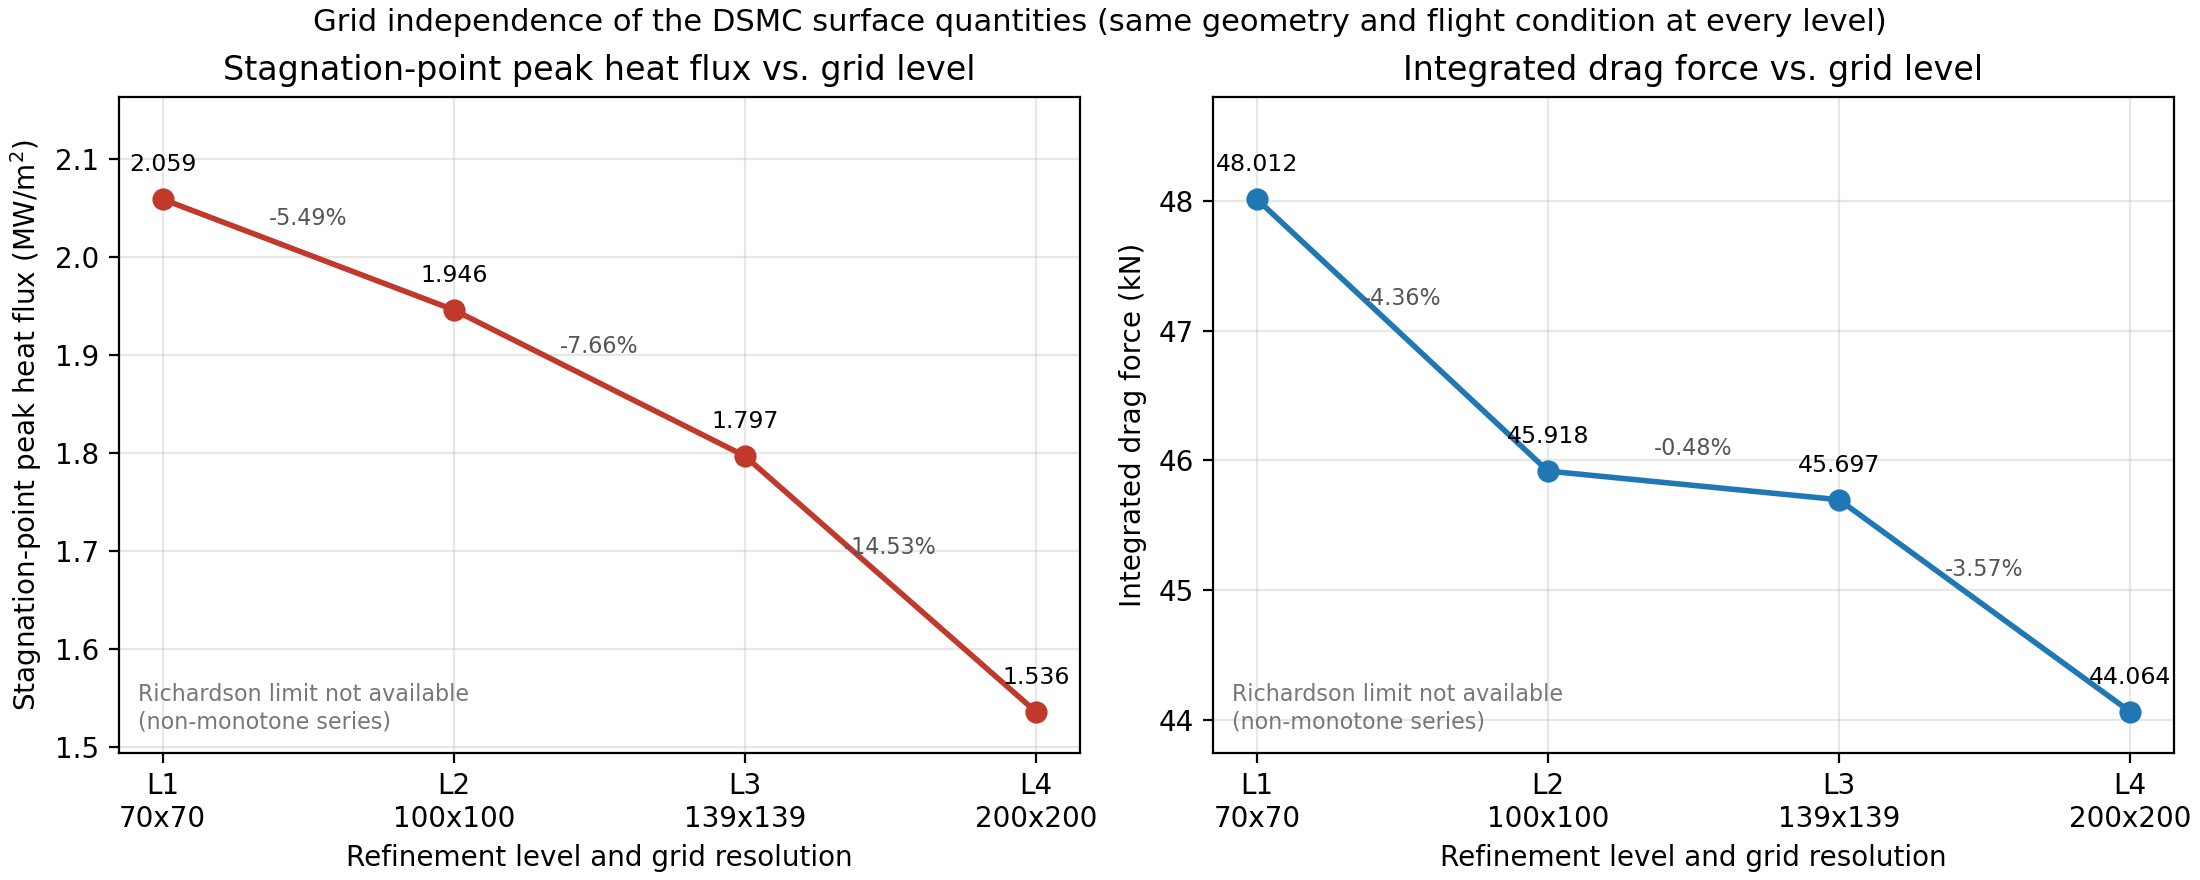
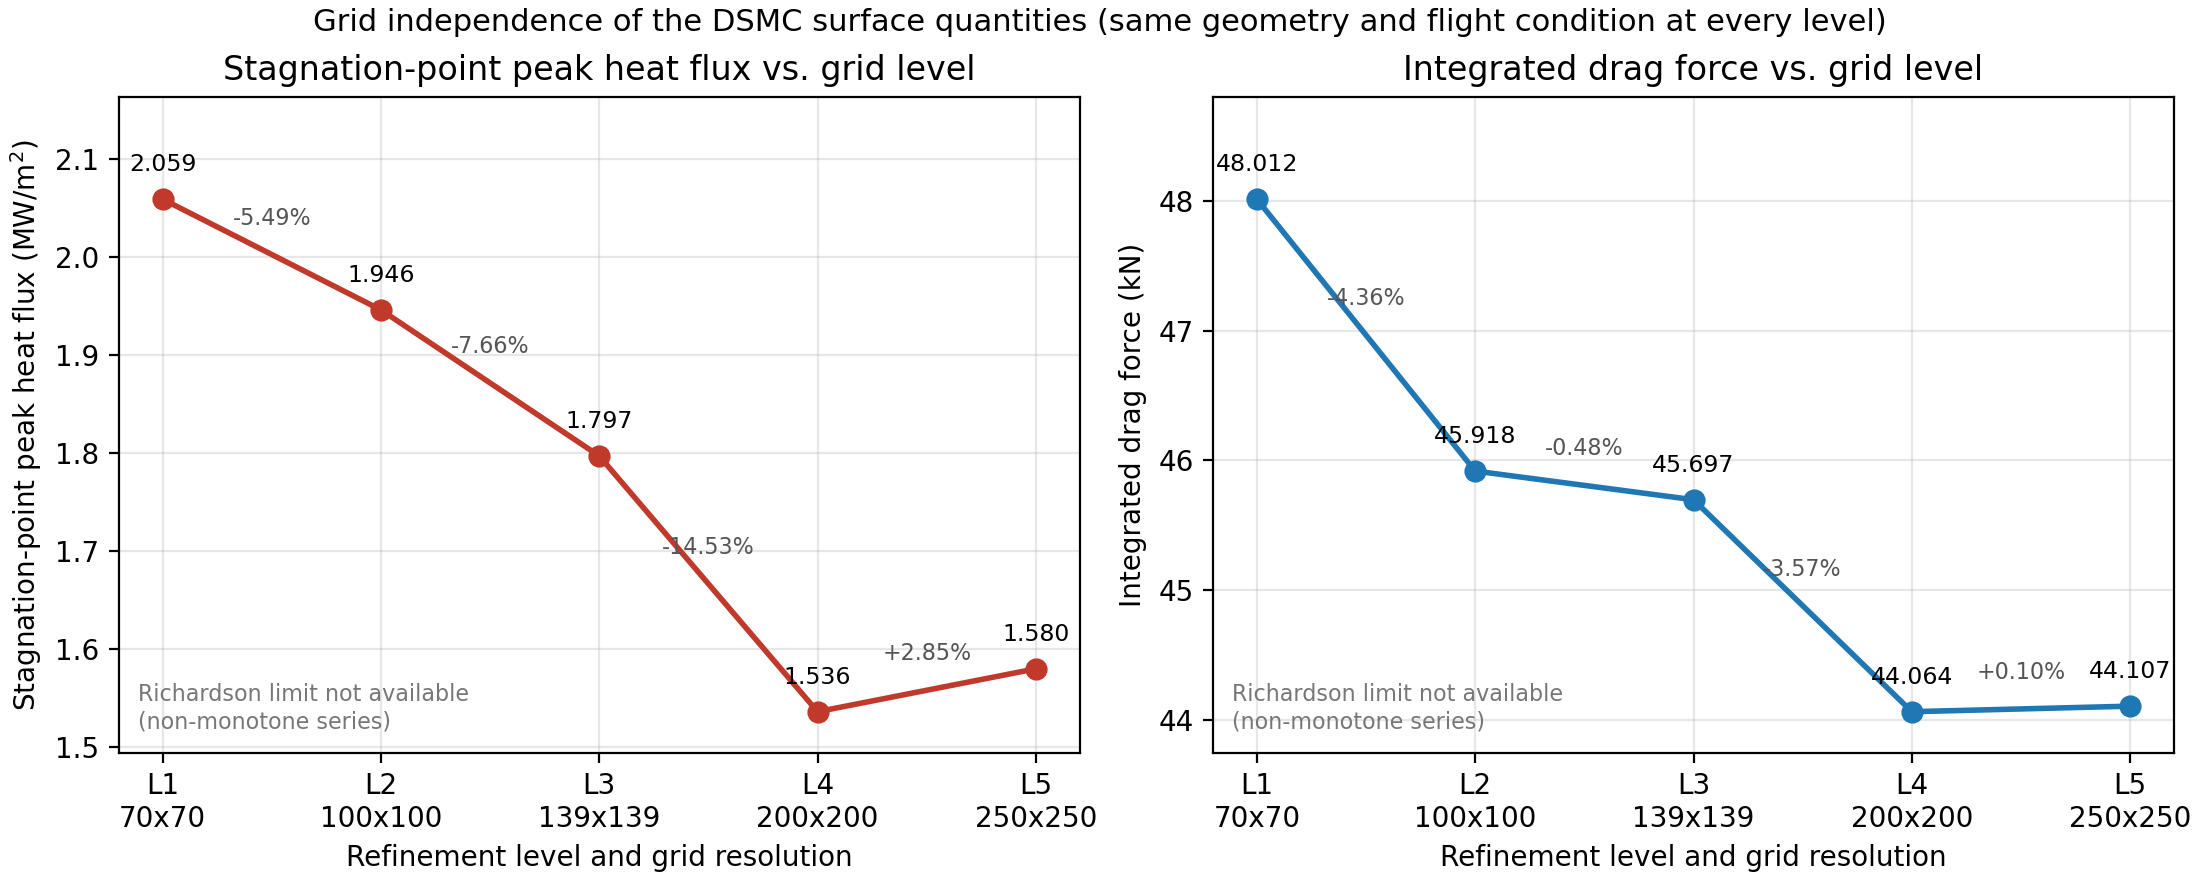
fix(thesis): bring the grid narration, table and figure into sync with the five-level study
The body text still described four resolutions and the embedded figure was the
October four-level PNG, while the abstracts and the csv already carried L5.

- chapter_04_results.tex:154/:241/:400 now say five resolutions, quote the L5
  peak 1.580 MW/m2 and the +2.85 percent reversal against L4, and note the peak
  surface migrates (id 4 -> 2 -> 7) so no observed order exists.
- appendix.tex: text and table caption say five levels; tab:grid_study gains the
  L5 row (250x250, 62500 cells, 1.580 MW/m2, 44.107 kN).
- figures/grid_independence_qoi.png replaced with the regenerated five-level
  figure (sha256 now matches the results tree).
- chapter_04_results.tex alt text: reference peak deceleration corrected from
  22.5 to 22.72 g so the caption agrees with itself and with the csv.

Rebuild: 0 errors, 0 warnings, 238 pages.

diff --git a/ProgressReport/CurrentThesisFinalReport/chapter_04_results.tex b/ProgressReport/CurrentThesisFinalReport/chapter_04_results.tex
@@ -151,7 +151,7 @@ A distribution validating the utilization of DSMC for a majority of the flow fie
 \end{figure}
 
 \section{Grid Independence Study}
-A grid independence study was performed on the reference body at the same freestream condition and trajectory point, at four Cartesian resolutions: $70\times70$ (4\,900 cells), $100\times100$ (10\,000 cells), $139\times139$ (19\,321 cells, the production grid) and $200\times200$ (40\,000 cells). Neither series is grid-converged: the integrated drag force appears to plateau between L2 and L3 ($-0.48\,\%$) but moves $-3.57\,\%$ at L4, and the stagnation-point peak heat flux changes by $-7.66\,\%$ (L2--L3) and $-14.53\,\%$ (L3--L4). Figure~\ref{fig:grid_independence} is the graphical record of the same campaign; the quantitative summary is Table~\ref{tab:grid_study}.
+A grid independence study was performed on the reference body at the same freestream condition and trajectory point, at five Cartesian resolutions: $70\times70$ (4\,900 cells), $100\times100$ (10\,000 cells), $139\times139$ (19\,321 cells, the production grid), $200\times200$ (40\,000 cells) and $250\times250$ (62\,500 cells). Neither series is grid-converged: the integrated drag force appears to plateau between L2 and L3 ($-0.48\,\%$) but moves $-3.57\,\%$ at L4, and the stagnation-point peak heat flux changes by $-7.66\,\%$ (L2--L3) and $-14.53\,\%$ (L3--L4) before reversing to $+2.85\,\%$ at L5 (1.580 against 1.536\,MW\,m$^{-2}$), so the successive differences do not shrink and the peak surface migrates between elements (id 4 at L3, 2 at L4, 7 at L5). Figure~\ref{fig:grid_independence} is the graphical record of the same campaign; the quantitative summary is Table~\ref{tab:grid_study}.
 
 \begin{figure}[H]
     \centering
@@ -238,7 +238,7 @@ The DSMC simulation convergence is monitored via residual tracking (Figure~\ref{
 \end{figure}
 
 \section{Mesh Quality Statistics}
-The quantitative evidence for the chosen grid is the four-level grid-independence study of Table~\ref{tab:grid_study} and Figure~\ref{fig:grid_independence}, together with the residual convergence of Figure~\ref{fig:convergence}, not a statistics panel: both figures in this section (Figures~\ref{fig:grid_mesh} and \ref{fig:mesh_stats}) render the mesh and report no numeric quality metric. The study shows that neither series is grid-converged (the drag plateau at L2--L3 is invalidated by L4 and the heat-flux differences grow with refinement), so the production grid ($139\times139$, 19\,321 cells) is retained on cost grounds as a conservative choice for the surface quantities.
+The quantitative evidence for the chosen grid is the five-level grid-independence study of Table~\ref{tab:grid_study} and Figure~\ref{fig:grid_independence}, together with the residual convergence of Figure~\ref{fig:convergence}, not a statistics panel: both figures in this section (Figures~\ref{fig:grid_mesh} and \ref{fig:mesh_stats}) render the mesh and report no numeric quality metric. The study shows that neither series is grid-converged (the drag plateau at L2--L3 is invalidated by L4 and the heat-flux differences grow with refinement), so the production grid ($139\times139$, 19\,321 cells) is retained on cost grounds as a conservative choice for the surface quantities.
 
 \begin{figure}[H]
     \centering
@@ -397,11 +397,11 @@ The thermal cost of the topological change is small: the optimized body raises t
 \section{Supporting Evidence from the Simulation Record}
 \label{sec:results_tree_evidence}
 
-The figures presented are snapshots of a converged state, a mesh, geometry, and search data. The program records each run under \texttt{stellarorion\_program\_proc/results/}and incorporates this into the thesis. Each panel is verbatim from the results tree, meaning there are no second, divergent renditions of the same data. Two additional figures are generated by the pipeline from these records: the surface quantities' grid independence across four refinement levels (Figure~\ref{fig:grid_independence}) and the axial surface-pressure distribution of the reference body (Figure~\ref{fig:surface_pressure}). The flight-history, heat flux, sampling, geometry, survivability, design-space, denoising, and morphing panels (Figures~\ref{fig:flight_history}–\ref{fig:morphing_geometry}) are discussed below.
+The figures presented are snapshots of a converged state, a mesh, geometry, and search data. The program records each run under \texttt{stellarorion\_program\_proc/results/}and incorporates this into the thesis. Each panel is verbatim from the results tree, meaning there are no second, divergent renditions of the same data. Two additional figures are generated by the pipeline from these records: the surface quantities' grid independence across five refinement levels (Figure~\ref{fig:grid_independence}) and the axial surface-pressure distribution of the reference body (Figure~\ref{fig:surface_pressure}). The flight-history, heat flux, sampling, geometry, survivability, design-space, denoising, and morphing panels (Figures~\ref{fig:flight_history}–\ref{fig:morphing_geometry}) are discussed below.
 
 \begin{figure}[H]
 \centering
-\BeginAccSupp{method=escape,ActualText={Four rows by two columns of time histories. Rows are drag coefficient, total drag force, total heat load and deceleration load from top to bottom; columns are the reference tree on the left and the gate-passing optimized topology on the right. The reference drag force falls from 62.5 kN to about 45 kN, the peak deceleration is 22.5 g and the heat load is flat at 165.7 J per square centimetre. The optimized topology is the smaller gate-passing body: its drag force peaks at 23.0 kN and ends at 14.4 kN, its peak deceleration is 8.36 g (final 5.21 g), and its heat load is 117.5 J per square centimetre, a lighter trajectory than the reference's 45.6 kN and 22.72 g.}}
+\BeginAccSupp{method=escape,ActualText={Four rows by two columns of time histories. Rows are drag coefficient, total drag force, total heat load and deceleration load from top to bottom; columns are the reference tree on the left and the gate-passing optimized topology on the right. The reference drag force falls from 62.5 kN to about 45 kN, the peak deceleration is 22.72 g and the heat load is flat at 165.7 J per square centimetre. The optimized topology is the smaller gate-passing body: its drag force peaks at 23.0 kN and ends at 14.4 kN, its peak deceleration is 8.36 g (final 5.21 g), and its heat load is 117.5 J per square centimetre, a lighter trajectory than the reference's 45.6 kN and 22.72 g.}}
 \includegraphics[width=0.85\textwidth]{figures/flight_history_panel.png}
 \EndAccSupp{}
 \caption[Integrated flight history of the reference and optimized bodies]{%

diff --git a/ProgressReport/CurrentThesisFinalReport/appendix.tex b/ProgressReport/CurrentThesisFinalReport/appendix.tex
@@ -265,11 +265,11 @@ Toroid radius & 0.135\,m & 0.135\,m & 0.135\,m & 0 \\
 
 \section{Grid Independence Study Results}
 
-Table~\ref{tab:grid_study} summarizes the grid independence study. Four Cartesian resolutions were run on the reference body at the same freestream condition and trajectory point: $70\times70$ (4\,900 cells), $100\times100$ (10\,000 cells), $139\times139$ (19\,321 cells, the production grid) and $200\times200$ (40\,000 cells). Neither series is grid-converged: the integrated drag force appears to plateau between L2 and L3 ($-0.48\,\%$) but moves $-3.57\,\%$ at L4, and the stagnation-point peak heat flux changes by $-7.66\,\%$ (L2--L3) and $-14.53\,\%$ (L3--L4). The production grid is therefore the $139\times139$ level on cost grounds, and Figure~\ref{fig:grid_independence} is the graphical record of the same campaign.
+Table~\ref{tab:grid_study} summarizes the grid independence study. Five Cartesian resolutions were run on the reference body at the same freestream condition and trajectory point: $70\times70$ (4\,900 cells), $100\times100$ (10\,000 cells), $139\times139$ (19\,321 cells, the production grid), $200\times200$ (40\,000 cells) and $250\times250$ (62\,500 cells). Neither series is grid-converged: the integrated drag force appears to plateau between L2 and L3 ($-0.48\,\%$) but moves $-3.57\,\%$ at L4, and the stagnation-point peak heat flux changes by $-7.66\,\%$ (L2--L3) and $-14.53\,\%$ (L3--L4) before reversing to $+2.85\,\%$ at L5. The production grid is therefore the $139\times139$ level on cost grounds, and Figure~\ref{fig:grid_independence} is the graphical record of the same campaign.
 
 \begin{table}[H]
 \centering
-\caption{Grid independence study: surface quantities across four refinement levels.}
+\caption{Grid independence study: surface quantities across five refinement levels.}
 \label{tab:grid_study}
 \begin{tabular}{ccccc}
 \hline
@@ -279,6 +279,7 @@ L1 & $70\times70$ & 4\,900 & 2.059 & 48.012 \\
 L2 & $100\times100$ & 10\,000 & 1.946 & 45.918 \\
 L3 & $139\times139$ & 19\,321 & 1.797 & 45.697 \\
 L4 & $200\times200$ & 40\,000 & 1.536 & 44.064 \\
+L5 & $250\times250$ & 62\,500 & 1.580 & 44.107 \\
 \hline
 \end{tabular}
 \caption*{Neither series is grid-converged: the integrated drag force appears to plateau between L2 and L3 ($-0.48\,\%$) but moves $-3.57\,\%$ at L4, and the stagnation-point peak heat flux changes by $-7.66\,\%$ (L2--L3) and $-14.53\,\%$ (L3--L4), with successive differences that grow in the heat-flux series and do not shrink in the drag series. L3 is the production grid used for every result in this thesis on cost grounds. Values are read from the per-level \texttt{case.json} records; the graphical record is Figure~\ref{fig:grid_independence}.}
